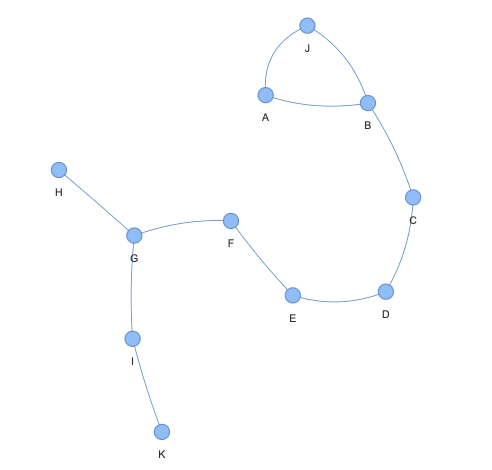
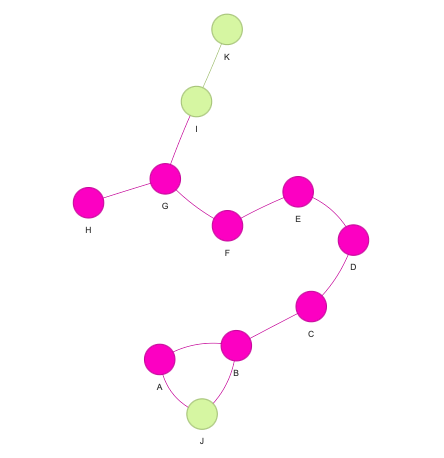
up

diff --git a/projects/networks/critical_path_example.html b/projects/networks/critical_path_example.html
@@ -7527,7 +7527,8 @@ a.anchor-link {
 <span class="n">data</span> <span class="o">=</span> <span class="p">{</span>
     <span class="s1">'predecessor'</span><span class="p">:</span> <span class="p">[</span><span class="s1">'A'</span><span class="p">,</span> <span class="s1">'B'</span><span class="p">,</span> <span class="s1">'C'</span><span class="p">,</span> <span class="s1">'D'</span><span class="p">,</span> <span class="s1">'E'</span><span class="p">,</span> <span class="s1">'F'</span><span class="p">,</span> <span class="s1">'G'</span><span class="p">,</span> <span class="s1">'A'</span><span class="p">,</span> <span class="s1">'B'</span><span class="p">,</span> <span class="s1">'G'</span><span class="p">,</span> <span class="s1">'I'</span><span class="p">],</span>
     <span class="s1">'successor'</span><span class="p">:</span> <span class="p">[</span><span class="s1">'B'</span><span class="p">,</span> <span class="s1">'C'</span><span class="p">,</span> <span class="s1">'D'</span><span class="p">,</span> <span class="s1">'E'</span><span class="p">,</span> <span class="s1">'F'</span><span class="p">,</span> <span class="s1">'G'</span><span class="p">,</span> <span class="s1">'H'</span><span class="p">,</span> <span class="s1">'J'</span><span class="p">,</span> <span class="s1">'J'</span><span class="p">,</span> <span class="s1">'I'</span><span class="p">,</span> <span class="s1">'K'</span><span class="p">],</span>
-    <span class="s1">'duration'</span><span class="p">:</span> <span class="p">[</span><span class="mi">5</span><span class="p">,</span> <span class="mi">3</span><span class="p">,</span> <span class="mi">2</span><span class="p">,</span> <span class="mi">4</span><span class="p">,</span> <span class="mi">7</span><span class="p">,</span> <span class="mi">6</span><span class="p">,</span> <span class="mi">8</span><span class="p">,</span> <span class="mi">4</span><span class="p">,</span> <span class="mi">1</span><span class="p">,</span> <span class="mi">1</span><span class="p">,</span> <span class="mi">1</span><span class="p">]</span>
+    <span class="s1">'duration'</span><span class="p">:</span> <span class="p">[</span><span class="mi">5</span><span class="p">,</span> <span class="mi">3</span><span class="p">,</span> <span class="mi">2</span><span class="p">,</span> <span class="mi">4</span><span class="p">,</span> <span class="mi">7</span><span class="p">,</span> <span class="mi">6</span><span class="p">,</span> <span class="mi">8</span><span class="p">,</span> <span class="mi">4</span><span class="p">,</span> <span class="mi">1</span><span class="p">,</span> <span class="mi">1</span><span class="p">,</span> <span class="mi">1</span><span class="p">],</span>
+    <span class="s1">'color'</span><span class="p">:</span> <span class="p">[</span><span class="s1">'#FF00CC'</span><span class="p">,</span> <span class="s1">'#FF00CC'</span><span class="p">,</span> <span class="s1">'#FF00CC'</span><span class="p">,</span> <span class="s1">'#FF00CC'</span><span class="p">,</span> <span class="s1">'#FF00CC'</span><span class="p">,</span> <span class="s1">'#FF00CC'</span><span class="p">,</span> <span class="s1">'#FF00CC'</span><span class="p">,</span><span class="s1">'#DAF7A6'</span><span class="p">,</span> <span class="s1">'#FF00CC'</span><span class="p">,</span> <span class="s1">'#DAF7A6'</span><span class="p">,</span> <span class="s1">'#DAF7A6'</span><span class="p">]</span>
 <span class="p">}</span>
 
 <span class="n">df</span> <span class="o">=</span> <span class="n">pd</span><span class="o">.</span><span class="n">DataFrame</span><span class="p">(</span><span class="n">data</span><span class="p">)</span>
@@ -7565,6 +7566,7 @@ a.anchor-link {
 <th>predecessor</th>
 <th>successor</th>
 <th>duration</th>
+<th>color</th>
 </tr>
 </thead>
 <tbody>
@@ -7573,30 +7575,35 @@ a.anchor-link {
 <td>A</td>
 <td>B</td>
 <td>5</td>
+<td>#FF00CC</td>
 </tr>
 <tr>
 <th>1</th>
 <td>B</td>
 <td>C</td>
 <td>3</td>
+<td>#FF00CC</td>
 </tr>
 <tr>
 <th>2</th>
 <td>C</td>
 <td>D</td>
 <td>2</td>
+<td>#FF00CC</td>
 </tr>
 <tr>
 <th>3</th>
 <td>D</td>
 <td>E</td>
 <td>4</td>
+<td>#FF00CC</td>
 </tr>
 <tr>
 <th>4</th>
 <td>E</td>
 <td>F</td>
 <td>7</td>
+<td>#FF00CC</td>
 </tr>
 </tbody>
 </table>
@@ -7713,8 +7720,56 @@ a.anchor-link {
 <div class="jp-InputPrompt jp-InputArea-prompt">In [ ]:</div>
 <div class="jp-CodeMirrorEditor jp-Editor jp-InputArea-editor" data-type="inline">
 <div class="cm-editor cm-s-jupyter">
+<div class="highlight hl-ipython3"><pre><span></span><span class="n">net</span> <span class="o">=</span> <span class="n">Network</span><span class="p">(</span><span class="s1">'500px'</span><span class="p">,</span> <span class="s1">'800px'</span><span class="p">,</span> <span class="n">notebook</span><span class="o">=</span><span class="kc">True</span><span class="p">)</span>
+</pre></div>
+</div>
+</div>
+</div>
+</div>
+<div class="jp-Cell-outputWrapper">
+<div class="jp-Collapser jp-OutputCollapser jp-Cell-outputCollapser">
+</div>
+<div class="jp-OutputArea jp-Cell-outputArea">
+<div class="jp-OutputArea-child">
+<div class="jp-OutputPrompt jp-OutputArea-prompt"></div>
+<div class="jp-RenderedText jp-OutputArea-output" data-mime-type="text/plain" tabindex="0">
+<pre>Warning: When  cdn_resources is 'local' jupyter notebook has issues displaying graphics on chrome/safari. Use cdn_resources='in_line' or cdn_resources='remote' if you have issues viewing graphics in a notebook.
+</pre>
+</div>
+</div>
+</div>
+</div>
+</div><div class="jp-Cell jp-CodeCell jp-Notebook-cell jp-mod-noOutputs">
+<div class="jp-Cell-inputWrapper" tabindex="0">
+<div class="jp-Collapser jp-InputCollapser jp-Cell-inputCollapser">
+</div>
+<div class="jp-InputArea jp-Cell-inputArea">
+<div class="jp-InputPrompt jp-InputArea-prompt">In [ ]:</div>
+<div class="jp-CodeMirrorEditor jp-Editor jp-InputArea-editor" data-type="inline">
+<div class="cm-editor cm-s-jupyter">
+<div class="highlight hl-ipython3"><pre><span></span><span class="c1"># Add nodes with custom colors based on the DataFrame</span>
+<span class="k">for</span> <span class="n">node</span> <span class="ow">in</span> <span class="n">G</span><span class="o">.</span><span class="n">nodes</span><span class="p">():</span>
+    <span class="c1"># Find the color associated with the node</span>
+    <span class="n">color</span> <span class="o">=</span> <span class="n">df</span><span class="o">.</span><span class="n">loc</span><span class="p">[</span><span class="n">df</span><span class="p">[</span><span class="s1">'predecessor'</span><span class="p">]</span> <span class="o">==</span> <span class="n">node</span><span class="p">,</span> <span class="s1">'color'</span><span class="p">]</span>
+    <span class="k">if</span> <span class="n">color</span><span class="o">.</span><span class="n">empty</span><span class="p">:</span>
+        <span class="n">color</span> <span class="o">=</span> <span class="n">df</span><span class="o">.</span><span class="n">loc</span><span class="p">[</span><span class="n">df</span><span class="p">[</span><span class="s1">'successor'</span><span class="p">]</span> <span class="o">==</span> <span class="n">node</span><span class="p">,</span> <span class="s1">'color'</span><span class="p">]</span>
+    <span class="n">color</span> <span class="o">=</span> <span class="n">color</span><span class="o">.</span><span class="n">values</span><span class="p">[</span><span class="mi">0</span><span class="p">]</span> <span class="k">if</span> <span class="ow">not</span> <span class="n">color</span><span class="o">.</span><span class="n">empty</span> <span class="k">else</span> <span class="s1">'gray'</span>  <span class="c1"># Default to gray if no color found</span>
+    <span class="n">net</span><span class="o">.</span><span class="n">add_node</span><span class="p">(</span><span class="n">node</span><span class="p">,</span> <span class="n">color</span><span class="o">=</span><span class="n">color</span><span class="p">)</span>
+</pre></div>
+</div>
+</div>
+</div>
+</div>
+</div><div class="jp-Cell jp-CodeCell jp-Notebook-cell">
+<div class="jp-Cell-inputWrapper" tabindex="0">
+<div class="jp-Collapser jp-InputCollapser jp-Cell-inputCollapser">
+</div>
+<div class="jp-InputArea jp-Cell-inputArea">
+<div class="jp-InputPrompt jp-InputArea-prompt">In [ ]:</div>
+<div class="jp-CodeMirrorEditor jp-Editor jp-InputArea-editor" data-type="inline">
+<div class="cm-editor cm-s-jupyter">
 <div class="highlight hl-ipython3"><pre><span></span><span class="c1"># Plot with pyvis</span>
-<span class="n">net</span> <span class="o">=</span> <span class="n">Network</span><span class="p">(</span><span class="s1">'500px'</span><span class="p">,</span> <span class="s1">'800px'</span><span class="p">,</span> <span class="n">notebook</span><span class="o">=</span><span class="kc">True</span><span class="p">)</span>
+
 <span class="c1"># net.show_buttons() # Show part 3 in the plot (optional)</span>
 <span class="n">net</span><span class="o">.</span><span class="n">from_nx</span><span class="p">(</span><span class="n">G</span><span class="p">)</span> <span class="c1"># Create directly from nx graph</span>
 <span class="n">net</span><span class="o">.</span><span class="n">show</span><span class="p">(</span><span class="s1">'criticalpath.html'</span><span class="p">)</span>
@@ -7730,8 +7785,7 @@ a.anchor-link {
 <div class="jp-OutputArea-child">
 <div class="jp-OutputPrompt jp-OutputArea-prompt"></div>
 <div class="jp-RenderedText jp-OutputArea-output" data-mime-type="text/plain" tabindex="0">
-<pre>Warning: When  cdn_resources is 'local' jupyter notebook has issues displaying graphics on chrome/safari. Use cdn_resources='in_line' or cdn_resources='remote' if you have issues viewing graphics in a notebook.
-criticalpath.html
+<pre>criticalpath.html
 </pre>
 </div>
 </div>

diff --git a/projects/networks/criticalpath.html b/projects/networks/criticalpath.html
@@ -88,7 +88,7 @@
                   
 
                   // parsing and collecting nodes and edges from the python
-                  nodes = new vis.DataSet([{"color": "#97c2fc", "id": "A", "label": "A", "shape": "dot", "size": 10}, {"color": "#97c2fc", "id": "B", "label": "B", "shape": "dot", "size": 10}, {"color": "#97c2fc", "id": "J", "label": "J", "shape": "dot", "size": 10}, {"color": "#97c2fc", "id": "C", "label": "C", "shape": "dot", "size": 10}, {"color": "#97c2fc", "id": "D", "label": "D", "shape": "dot", "size": 10}, {"color": "#97c2fc", "id": "E", "label": "E", "shape": "dot", "size": 10}, {"color": "#97c2fc", "id": "F", "label": "F", "shape": "dot", "size": 10}, {"color": "#97c2fc", "id": "G", "label": "G", "shape": "dot", "size": 10}, {"color": "#97c2fc", "id": "H", "label": "H", "shape": "dot", "size": 10}, {"color": "#97c2fc", "id": "I", "label": "I", "shape": "dot", "size": 10}, {"color": "#97c2fc", "id": "K", "label": "K", "shape": "dot", "size": 10}]);
+                  nodes = new vis.DataSet([{"color": "#FF00CC", "id": "A", "label": "A", "shape": "dot"}, {"color": "#FF00CC", "id": "B", "label": "B", "shape": "dot"}, {"color": "#FF00CC", "id": "C", "label": "C", "shape": "dot"}, {"color": "#FF00CC", "id": "D", "label": "D", "shape": "dot"}, {"color": "#FF00CC", "id": "E", "label": "E", "shape": "dot"}, {"color": "#FF00CC", "id": "F", "label": "F", "shape": "dot"}, {"color": "#FF00CC", "id": "G", "label": "G", "shape": "dot"}, {"color": "#FF00CC", "id": "H", "label": "H", "shape": "dot"}, {"color": "#DAF7A6", "id": "J", "label": "J", "shape": "dot"}, {"color": "#DAF7A6", "id": "I", "label": "I", "shape": "dot"}, {"color": "#DAF7A6", "id": "K", "label": "K", "shape": "dot"}]);
                   edges = new vis.DataSet([{"duration": 5, "from": "A", "to": "B", "width": 1}, {"duration": 4, "from": "A", "to": "J", "width": 1}, {"duration": 3, "from": "B", "to": "C", "width": 1}, {"duration": 1, "from": "B", "to": "J", "width": 1}, {"duration": 2, "from": "C", "to": "D", "width": 1}, {"duration": 4, "from": "D", "to": "E", "width": 1}, {"duration": 7, "from": "E", "to": "F", "width": 1}, {"duration": 6, "from": "F", "to": "G", "width": 1}, {"duration": 8, "from": "G", "to": "H", "width": 1}, {"duration": 1, "from": "G", "to": "I", "width": 1}, {"duration": 1, "from": "I", "to": "K", "width": 1}]);
 
                   nodeColors = {};

diff --git a/projects.html b/projects.html
@@ -137,7 +137,7 @@
                 <p class="about__description">A relational interactive Marvel network</p>  
                 <a href="buckey.html"> Network Diagram</a><br>
                 <a href="https://www.kaggle.com/code/glenn23/interactive-marvel-character-network?scriptVersionId=141110769"> Kaggle Notebook</a><br>
-                <a href="skills/skill_diagram.html"> My Skills diagram</a>
+                <a href="skills/skill_diagram.html"> My Skills diagram</a><br>
                 <a href="projects/networks/critical_path_example.html"> Critical Path notebook</a>
                 <hr>
                 <br>
